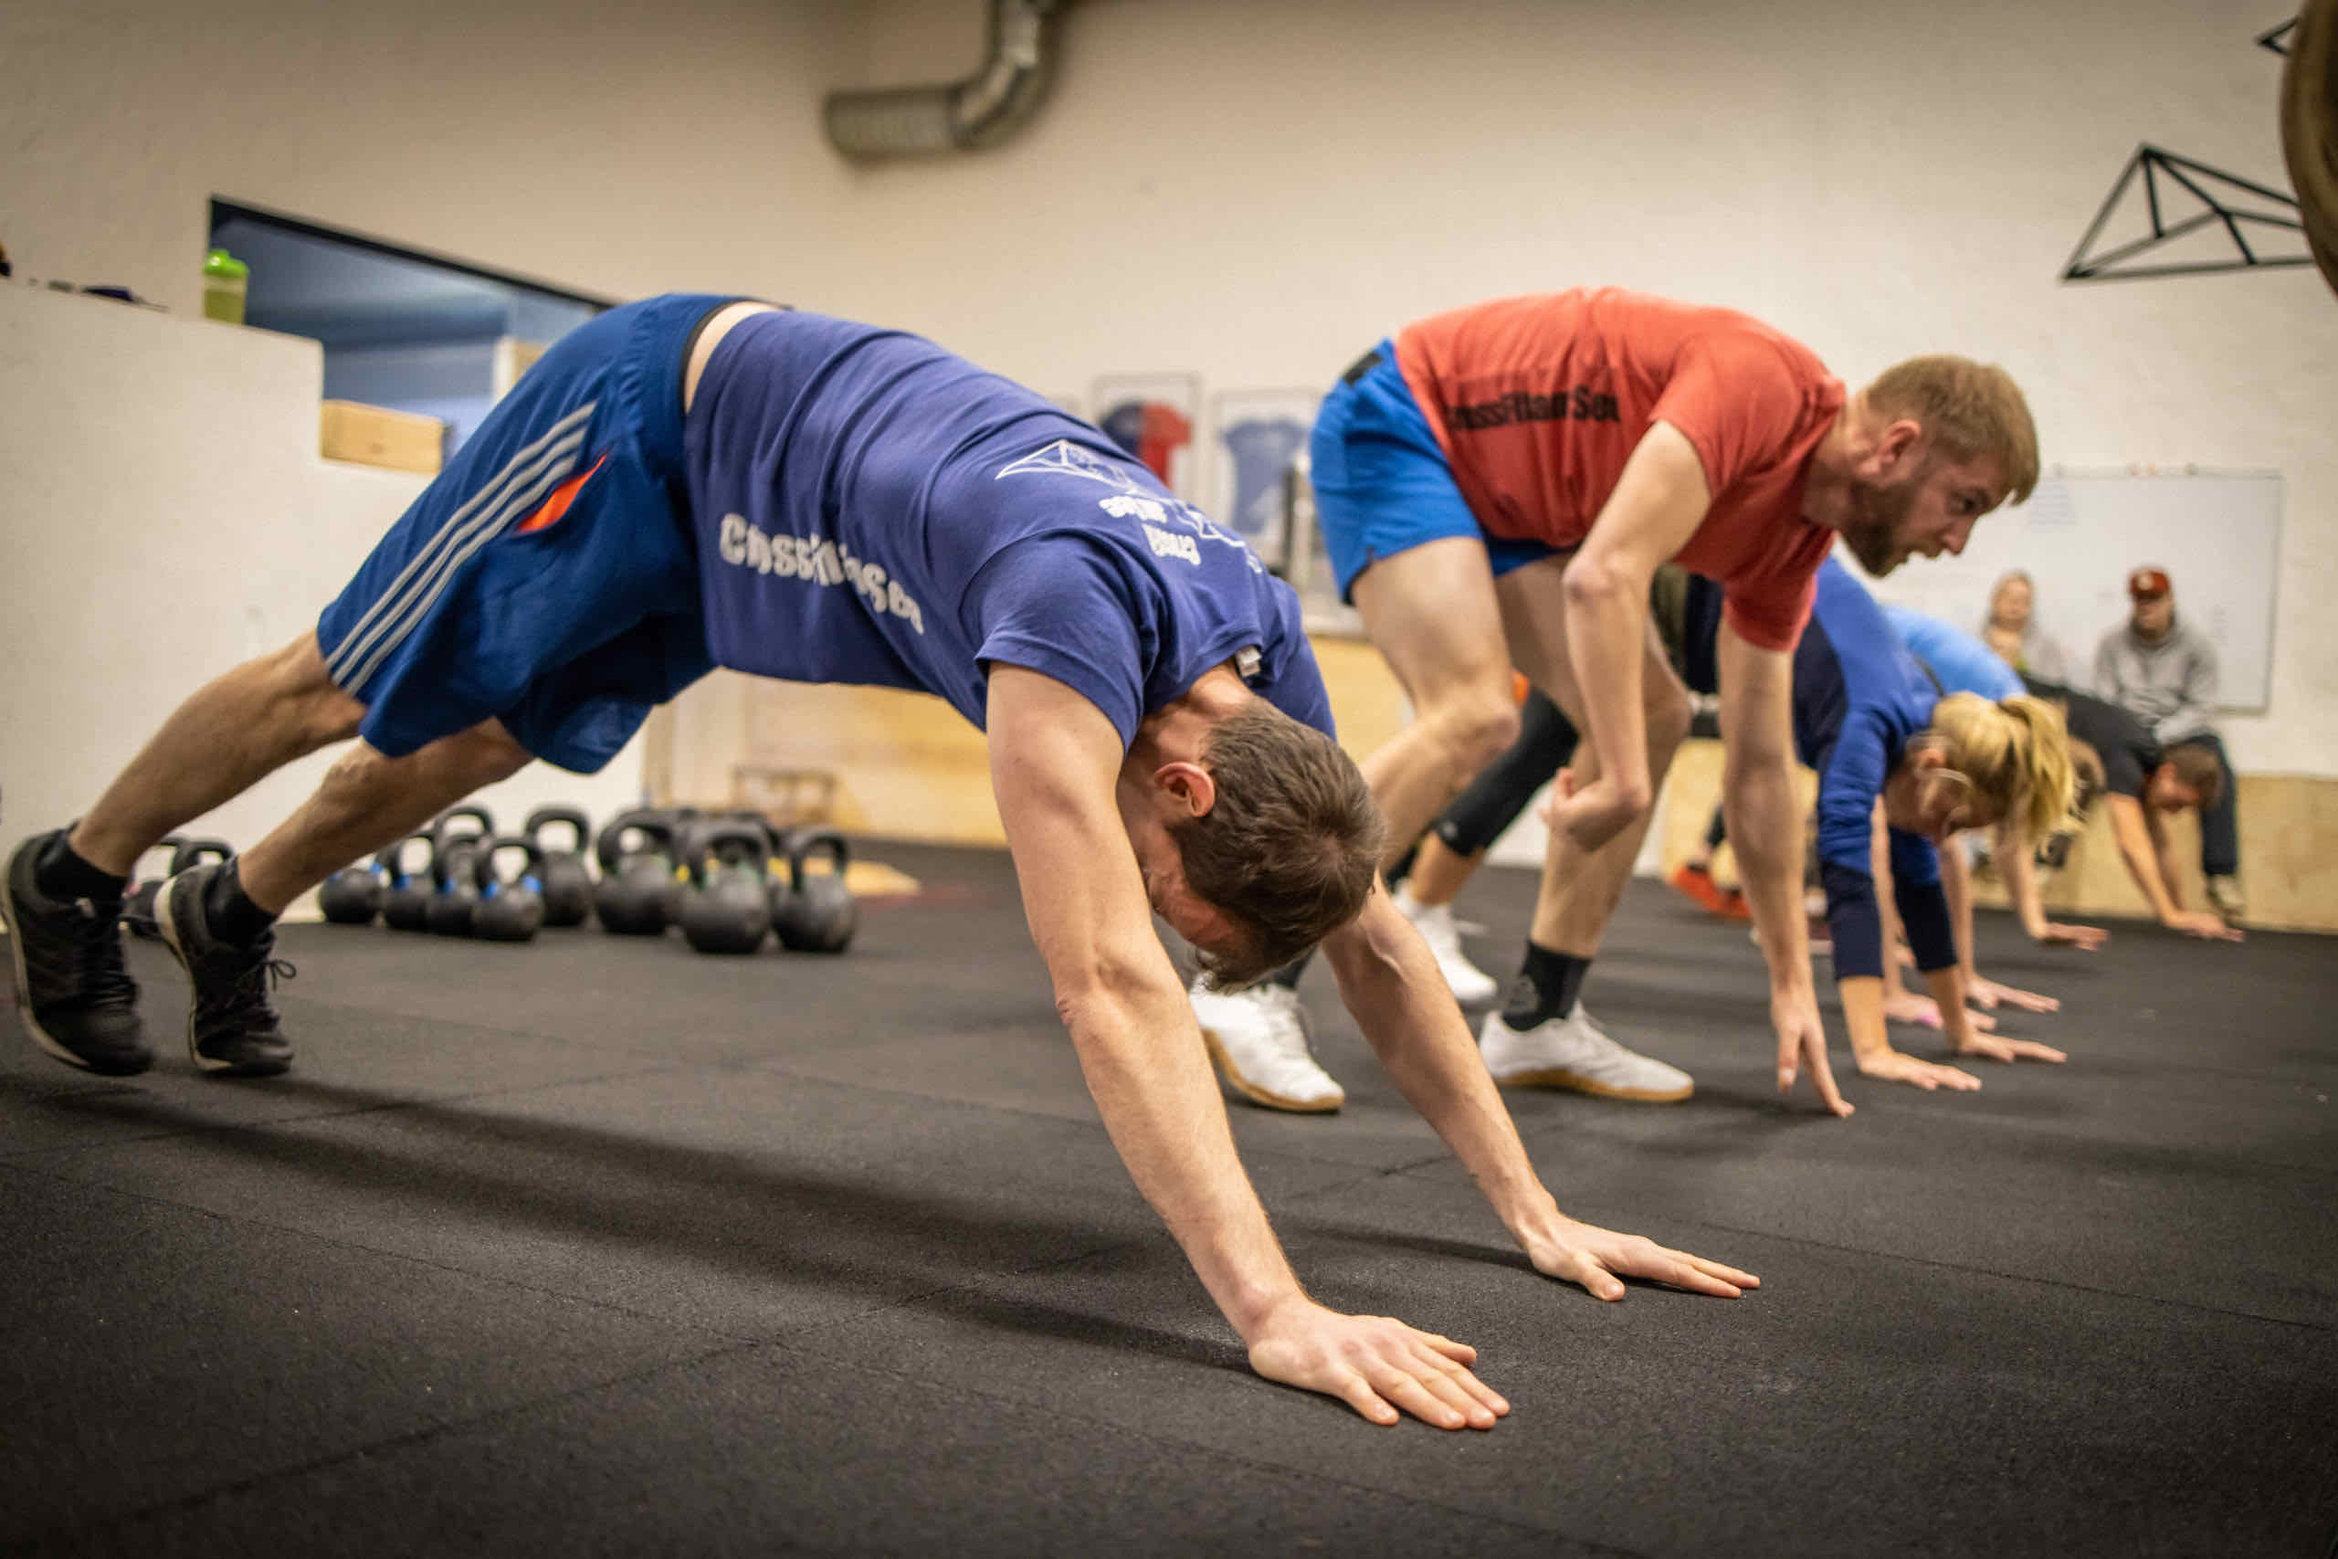
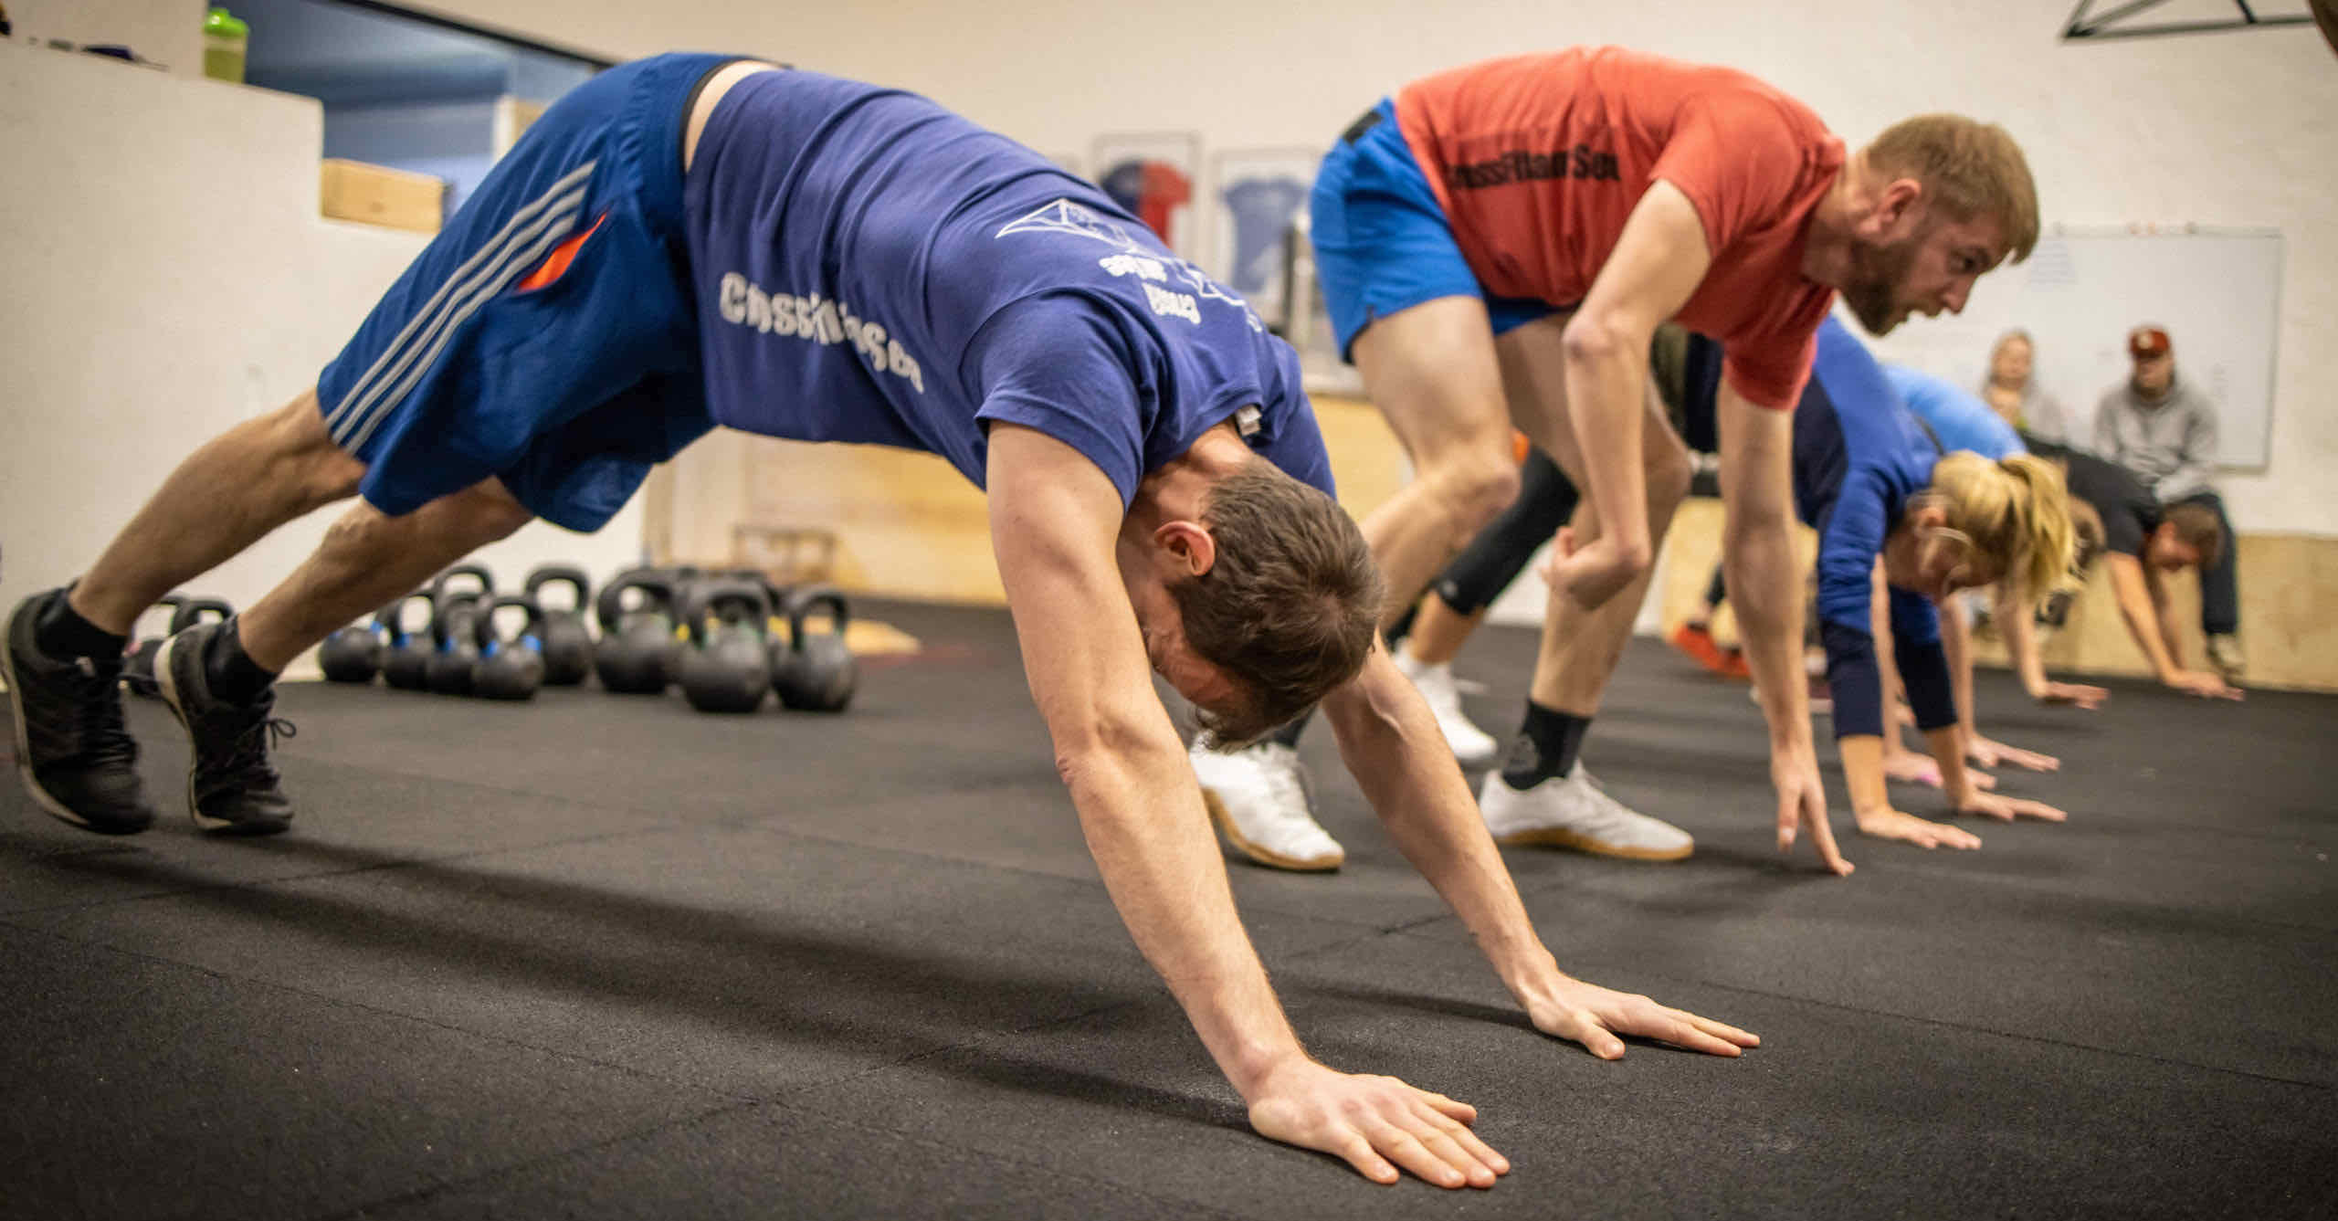
Improved slightly classes bg images

diff --git a/src/app/pages/offer/classes/class-description.service.ts b/src/app/pages/offer/classes/class-description.service.ts
@@ -16,7 +16,7 @@ export class ClassDescriptionService {
         image: {
           url: 'assets/static/images/style-images/basics.jpeg',
           alt: '',
-          position: ''
+          position: 'center'
         }
       },
       {
@@ -62,7 +62,7 @@ export class ClassDescriptionService {
         image: {
           url: 'assets/static/images/style-images/weightlifting.jpeg',
           alt: '',
-          position: ''
+          position: 'center'
         }
       },
       {
@@ -73,7 +73,7 @@ export class ClassDescriptionService {
         image: {
           url: 'assets/static/images/style-images/performance.jpg',
           alt: '',
-          position: ''
+          position: 'center'
         }
       },
       {
@@ -83,7 +83,7 @@ export class ClassDescriptionService {
         image: {
           url: 'assets/static/images/style-images/pumpin-iron.jpeg',
           alt: '',
-          position: ''
+          position: 'top'
         }
       },
       {
@@ -93,7 +93,7 @@ export class ClassDescriptionService {
         image: {
           url: 'assets/static/images/style-images/kettle-bell.jpg',
           alt: '',
-          position: ''
+          position: 'bottom'
         }
       },
       {
@@ -123,7 +123,7 @@ export class ClassDescriptionService {
         image: {
           url: 'assets/static/images/style-images/open-gym.jpeg',
           alt: '',
-          position: ''
+          position: 'center'
         }
       },
     ]

diff --git a/src/app/pages/offer/classes/class-description/class-description.component.scss b/src/app/pages/offer/classes/class-description/class-description.component.scss
@@ -1,11 +1,8 @@
 .image {
   min-height: 200px;
   background-size: cover;
-  background-position: center;
 
   @media screen and (max-width: 960px) {
-    background-attachment: fixed;
-    background-position: center;
     background-repeat: no-repeat;
   }
 }
